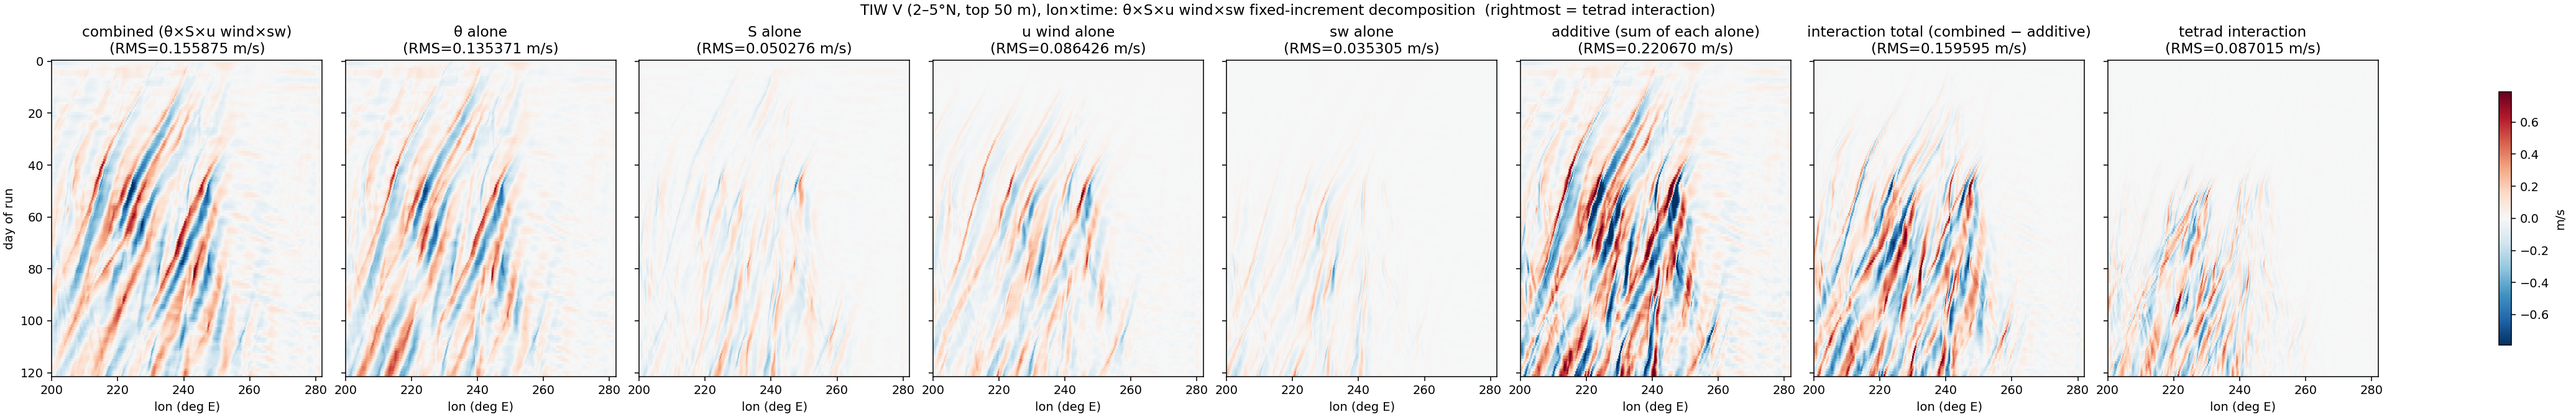
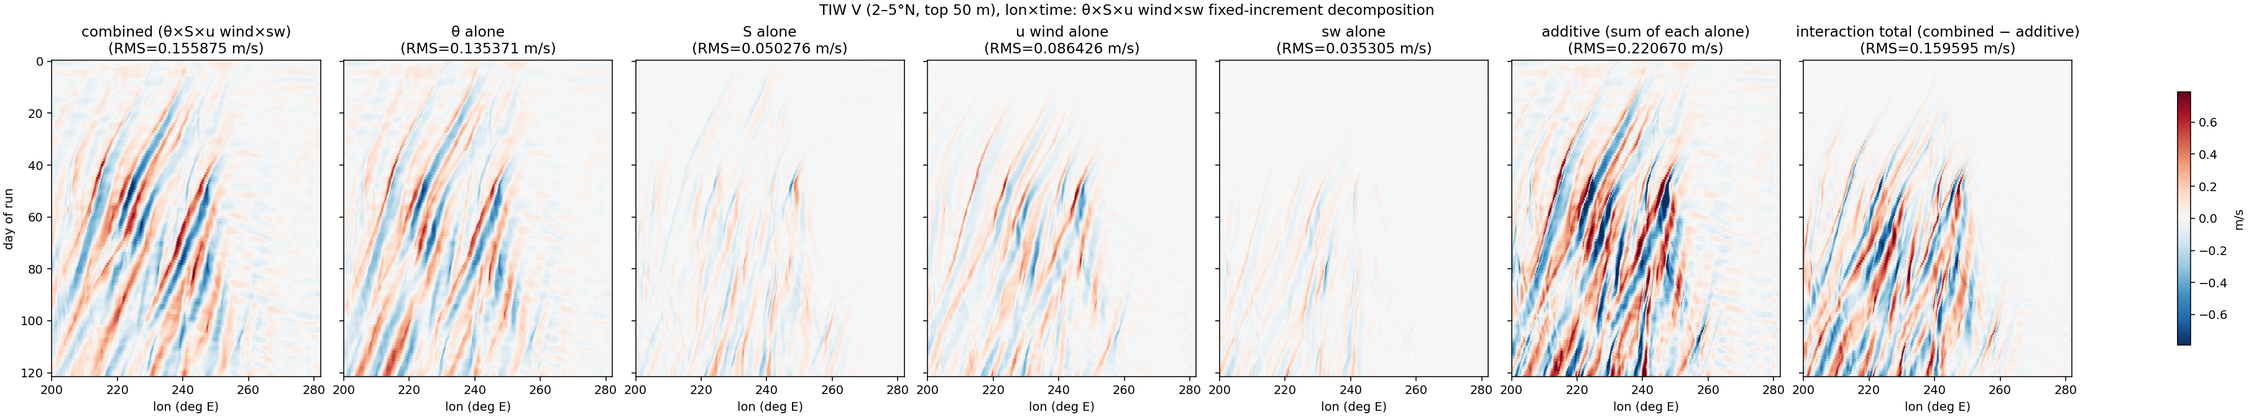
Clean up decomposition and summary figures
- decomp_rmse_profiles: per-panel depth limits (Argo -500 m, TAO -315 m),
  short θ/S/u wind labels
- decomp_time: swdown only in SST panel, single deduped legend
- decomp_work_shares: drop aqh/atemp/lwdown, rename residual bar to "interaction"
- top4_{euc,tiw}: drop redundant tetrad-interaction panel + suptitle clause
- skill_maps_sst_by_obs: regenerate with minus notation (was stale)
- tiw_hovmoller_sst: restore obs contours on anomaly row

diff --git a/make_figures.py b/make_figures.py
@@ -32,6 +32,10 @@ FIX_COLOR = {'prior': '0.5', 'noVel': 'tab:orange', 'Vel': 'tab:blue'}
 # highlight for the single-control run in fig1(b)/fig2: distinct from the
 # prior gray and noVel/Vel blues (CTRL_COLOR slategray/darkgray/tab:blue collide).
 CTRL_HILITE = 'tab:green'
+# short display labels for the decomposition figures (combos keep their tiw.CONTROL_XX θ+S labels)
+DECOMP_LABEL = {'initialT': 'θ', 'initialS': 'S', 'zonalWind': 'u wind', 'swdown': 'sw'}
+_dlabel = lambda r: DECOMP_LABEL.get(r, tiw.CONTROL_XX[r])
+
 CTRL_COLOR = {'initialT': 'tab:green', 'initialS': 'tab:red', 'zonalWind': 'tab:purple',
               'meridionalWind': 'tab:brown', 'swdown': 'tab:olive',
               'atmosT': 'tab:cyan', 'atmosQ': 'tab:pink', 'lwdown': 'gold',
@@ -441,6 +445,7 @@ def _incr_vectors(prodkey, controls):
 
 
 def fig_decomp_bars(controls, outdir):
+    controls = [c for c in controls if c not in ('atmosT', 'atmosQ', 'lwdown')]
     prods = [p for p in PRODS if os.path.exists(f'{CACHE}/grid_{ANCHOR}_{p[0]}.nc')
              or os.path.exists(f"{CACHE}/model_{ANCHOR}_{p[0].replace('_','_')}.npy")]
     x = np.arange(len(prods)); w = 0.8 / (len(controls) + 1)
@@ -455,7 +460,7 @@ def fig_decomp_bars(controls, outdir):
             shares[key] = betas
             vals.append(100 * (betas[c] if c in controls else 1 - sum(betas.values())))
         col = CTRL_COLOR[c] if c in controls else '0.6'
-        lab = tiw.CONTROL_XX[c] if c in controls else 'interaction + untested'
+        lab = _dlabel(c) if c in controls else 'interaction'
         ax.bar(x + (ci - len(controls) / 2) * w, vals, w, label=lab, color=col)
     ax.set_xticks(x); ax.set_xticklabels([p[1] for p in prods])
     ax.axhline(0, color='k', lw=.8); ax.axhline(100, color='k', lw=.6, ls=':')
@@ -507,7 +512,7 @@ DECOMP_PROFILE_RUNS = [
 
 
 def fig_decomp_rmse_profiles(outdir):
-    fig, axs = plt.subplots(1, 4, figsize=(15, 5), sharey=True)
+    fig, axs = plt.subplots(1, 4, figsize=(15, 5))
     for ax, (prod, var) in zip(axs, [('argo', 'T'), ('argo', 'S'), ('tao', 'U'), ('tao', 'V')]):
         obs = np.load(f'{CACHE}/obs_{prod}.npz')
         depth = obs['depth']; o = obs[f'obs_{var}']; w = obs[f'w_{var}']
@@ -517,9 +522,10 @@ def fig_decomp_rmse_profiles(outdir):
                 continue
             style = dict(lw=1.3); style.update(kw)
             ax.plot(tiw.rmse_profile(o, np.load(fp), w), depth,
-                    color=color, label=lbl or tiw.CONTROL_XX[run], **style)
+                    color=color, label=lbl or _dlabel(run), **style)
         ax.set_title(f'{prod.upper()} {var}'); ax.set_xlabel('RMSE'); ax.grid(alpha=.3)
-    axs[0].set_ylabel('depth (m)'); axs[0].set_ylim(-500, 0)
+        ax.set_ylim(-500 if prod == 'argo' else -315, 0)   # match error_profiles_depth
+    axs[0].set_ylabel('depth (m)')
     axs[0].legend(fontsize=7, loc='lower right')
     fig.suptitle('Depth-resolved RMSE vs obs: single controls & combos vs full solution')
     fig.tight_layout(); fig.savefig(f'{outdir}/decomp_rmse_profiles.png', dpi=140); plt.close(fig)
@@ -544,33 +550,39 @@ def fig_decomp_time(outdir):
     fig, axs = plt.subplots(3, 2, figsize=(13, 9), sharex=True)
     panels = [('argo', 'T'), ('argo', 'S'), ('tao', 'U'), ('tao', 'V'), ('sst', None), ('ssh', None)]
     for ax, (prod, var) in zip(axs.ravel(), panels):
+        # swdown is a surface-flux control: only meaningful on SST, drop from the subsurface panels
+        runs = [r for r in DECOMP_TIME_RUNS if not (r[0] == 'swdown' and prod != 'sst')]
         if var is not None:
             obs = np.load(f'{CACHE}/obs_{prod}.npz')
             o = obs[f'obs_{var}']; w = obs[f'w_{var}']; day = obs['day']
-            for run, color, lbl, kw in DECOMP_TIME_RUNS:
+            for run, color, lbl, kw in runs:
                 fp = f'{CACHE}/model_{run}_{prod}_{var}.npy'
                 if not os.path.exists(fp):
                     continue
                 style = dict(lw=1.3); style.update(kw)
                 ax.plot(tiw.DAYS, _daily_rmse_profile(o, np.load(fp), w, day),
-                        color=color, label=lbl or tiw.CONTROL_XX[run], **style)
+                        color=color, label=lbl or _dlabel(run), **style)
             ax.set_title(f'{prod.upper()} {var}')
         else:
             obs_grid = _gridded_obs(prod)
-            for run, color, lbl, kw in DECOMP_TIME_RUNS:
+            for run, color, lbl, kw in runs:
                 fp = f'{CACHE}/grid_{run}_{prod}.nc'
                 if not os.path.exists(fp):
                     continue
                 style = dict(lw=1.3); style.update(kw)
                 d = xr.open_dataarray(fp).values - obs_grid
                 ax.plot(tiw.DAYS, np.sqrt(np.nanmean(d.reshape(tiw.NT, -1) ** 2, axis=1)),
-                        color=color, label=lbl or tiw.CONTROL_XX[run], **style)
+                        color=color, label=lbl or _dlabel(run), **style)
             ax.set_title(prod.upper())
         ax.grid(alpha=.3); ax.tick_params(axis='x', rotation=30)
     for ax in axs[:, 0]:
         ax.set_ylabel('RMSE')
-    h, l = axs[0, 0].get_legend_handles_labels()
-    fig.legend(h, l, fontsize=8, loc='center left', bbox_to_anchor=(1.0, 0.5))
+    # one deduplicated legend across all panels (so swdown, drawn only on SST, still appears)
+    hl = {}
+    for ax in axs.ravel():
+        for h, l in zip(*ax.get_legend_handles_labels()):
+            hl.setdefault(l, h)
+    fig.legend(hl.values(), hl.keys(), fontsize=8, loc='center left', bbox_to_anchor=(1.0, 0.5))
     fig.suptitle('Misfit evolution: single controls & combos vs full solution')
     fig.tight_layout()
     fig.savefig(f'{outdir}/decomp_time.png', dpi=140, bbox_inches='tight'); plt.close(fig)

diff --git a/anova.py b/anova.py
@@ -1182,7 +1182,9 @@ def fig_decomp(S, f, kind):
     if len(S) >= 3:
         inc += [(dS - summ, 'interaction total (combined − additive)')]
     aS_lab = f'{ORDER_NAME[len(S)]} interaction' if len(S) > 1 else 'main'
-    panels = inc + [(aS, aS_lab)]
+    # 4-way: the pure-tetrad inclusion-exclusion panel is noisy and redundant with
+    # 'interaction total' (combined − additive), so drop it from top4_{euc,tiw}.png.
+    panels = inc + ([(aS, aS_lab)] if len(S) < 4 else [])
     cols = [(_slice(F, cfg)[2], lab) for F, lab in panels]  # (2D array, label)
     xi, Y, _ = _slice(dS, cfg)
     lim = max(np.nanpercentile(np.abs(A), 99) for A, _ in cols)   # shared across all panels
@@ -1197,8 +1199,10 @@ def fig_decomp(S, f, kind):
         axs[0].invert_yaxis()           # Hovmöller: time increases downward
     axs[0].set_ylabel(cfg['ylab'])
     fig.colorbar(pc, ax=list(axs), shrink=.8, label='m/s')
-    fig.suptitle(f'{cfg["name"]}: {term_label(S)} fixed-increment decomposition  '
-                 f'(rightmost = {ORDER_NAME[len(S)]} interaction)')
+    _sub = f'{cfg["name"]}: {term_label(S)} fixed-increment decomposition'
+    if len(S) < 4:
+        _sub += f'  (rightmost = {ORDER_NAME[len(S)]} interaction)'
+    fig.suptitle(_sub)
     fig.savefig(f'{FIGS}/{RUN[frozenset(S)]}_{kind}.png', dpi=140); plt.close(fig)
 
 

diff --git a/summary_figs.py b/summary_figs.py
@@ -141,6 +141,9 @@ def fig_tiw_hovmoller():
     for j, (r, h, lab) in enumerate(panels):
         pa = axs[0, j].pcolormesh(h.XC, days, h.values, cmap='RdBu_r', vmin=-1.2, vmax=1.2,
                                   shading='auto')
+        if r != 'obs':                 # overlay obs TIW crests as contours
+            axs[0, j].contour(oh.XC, days, oh.values, levels=[-0.6, 0.6], colors='k',
+                              linewidths=0.6, alpha=0.7)
         axs[0, j].set_title(lab, fontsize=12)
         if r == 'obs':                 # row 2, col 1 is blank (obs has no error vs itself)
             axs[1, j].axis('off')
